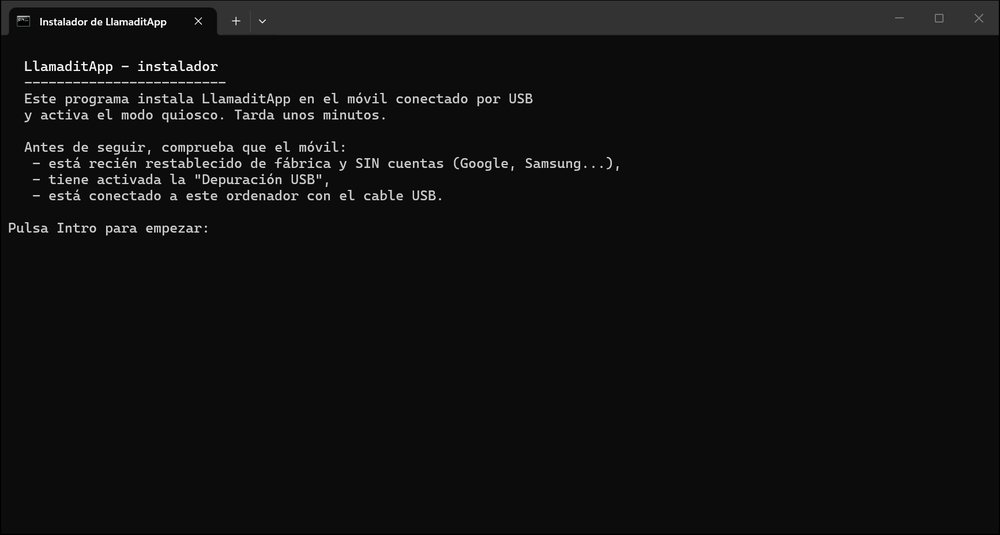
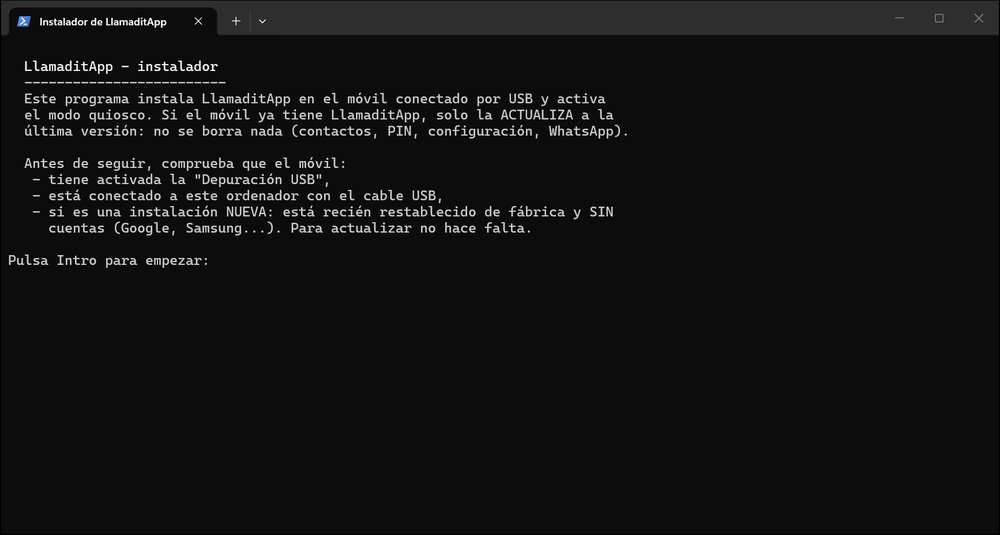
Guía para actualizar sin restablecer el móvil
- docs/ACTUALIZAR.md: paso a paso con capturas para pasar, por ejemplo,
  de la 1.1 a la 1.3 conservando contactos, PIN, configuración y modo
  quiosco. Probado en el emulador con una actualización real 1.1 -> 1.3.
- El instalador de Windows explica que también actualiza, dice de qué
  versión a cuál y da instrucciones distintas al terminar.
- Enlaces desde el README, la guía de instalación y la guía técnica.

diff --git a/docs/ACTUALIZAR.md b/docs/ACTUALIZAR.md
@@ -1,0 +1,159 @@
+# Actualizar LlamaditApp a la última versión
+
+Si el móvil ya tiene LlamaditApp instalada (por ejemplo, la versión 1.1) y quieres pasar a la última, **no hace falta restablecerlo de fábrica**. Se actualiza en unos 10 minutos con el mismo instalador de Windows, y **se conserva todo**:
+
+- los contactos, sus fotos y su orden;
+- el PIN del cuidador y toda la configuración del panel (contacto del SOS, quién puede pedir la ubicación, palabras clave…);
+- WhatsApp y sus videollamadas;
+- el modo quiosco: LlamaditApp sigue controlando el móvil.
+
+Se puede saltar versiones: de la 1.1 se pasa directamente a la última.
+
+> ⚠ **No hagas nada de esto para actualizar:** no restablezcas el móvil, no pulses **Quitar el Device Owner** en el panel y no desinstales la app. Perderías la configuración y tendrías que instalarlo todo desde cero.
+
+**Lo que necesitas:**
+
+- Un ordenador con **Windows** e internet.
+- El **cable USB** del móvil.
+- El móvil con **más de la mitad de batería**.
+- El **PIN del cuidador**.
+
+---
+
+## Índice
+
+1. [Mira qué versión tienes y pausa el modo quiosco](#1-mira-qué-versión-tienes-y-pausa-el-modo-quiosco)
+2. [Comprueba que la "Depuración USB" sigue activada](#2-comprueba-que-la-depuración-usb-sigue-activada)
+3. [Descarga el instalador nuevo](#3-descarga-el-instalador-nuevo)
+4. [Conecta el móvil y ejecuta el instalador](#4-conecta-el-móvil-y-ejecuta-el-instalador)
+5. [Comprueba el móvil y activa otra vez el modo quiosco](#5-comprueba-el-móvil-y-activa-otra-vez-el-modo-quiosco)
+6. [Configura las novedades](#6-configura-las-novedades)
+7. [Si algo sale mal](#7-si-algo-sale-mal)
+
+---
+
+## 1. Mira qué versión tienes y pausa el modo quiosco
+
+1. En el móvil, **mantén pulsado el reloj 5 segundos** y escribe el **PIN** del cuidador.
+2. Baja hasta el final del panel. En **Acerca de** pone la versión instalada (en la captura, **LlamaditApp 1.1**). La última versión está siempre en la [página de descargas](https://github.com/alvsanmun/LlamaditApp/releases/latest).
+3. Un poco más arriba, en **Modo quiosco**, pulsa **Pausar el modo quiosco**. Así el móvil puede mostrar los avisos que hagan falta durante la actualización. Al terminar lo volverás a activar.
+
+<table><tr>
+<td><img src="img/actualizar/a01-version-y-pausar.jpg" width="260" alt="Panel del cuidador: botón Pausar el modo quiosco y versión 1.1 en Acerca de"></td>
+</tr><tr>
+<td align="center">① <b>Acerca de</b>: la versión.<br>② <b>Pausar el modo quiosco</b>.<br>⛔ El botón rojo, <b>no</b>.</td>
+</tr></table>
+
+---
+
+## 2. Comprueba que la "Depuración USB" sigue activada
+
+Es la opción que dejaste activada al instalar LlamaditApp. Normalmente sigue así, pero conviene comprobarlo:
+
+1. En el panel, pulsa **Abrir Ajustes de Android**.
+2. Ve al final de Ajustes → **Opciones de desarrollador** y comprueba que **Depuración por USB** está **activada**.
+3. **Solo en Samsung:** en **Ajustes → Seguridad y privacidad**, el **Bloqueador automático** tiene que estar **desactivado**; si no, el móvil no deja instalar desde el ordenador.
+
+<table><tr>
+<td><img src="img/guia/s11-opciones-desarrollador.jpg" width="230" alt="Opciones de desarrollador al final de Ajustes"></td>
+<td><img src="img/guia/s12-depuracion-usb.jpg" width="230" alt="Depuración por USB activada"></td>
+</tr><tr>
+<td align="center">① <b>Opciones de desarrollador</b></td><td align="center">② <b>Depuración por USB</b> activada</td>
+</tr></table>
+
+Si no aparecen las **Opciones de desarrollador** (puede pasar tras una actualización grande de Android), actívalas otra vez como en el [paso 5 de la guía de instalación](GUIA-INSTALACION.md#5-activar-la-depuración-usb).
+
+Pulsa el botón de **inicio** del móvil para volver a LlamaditApp.
+
+---
+
+## 3. Descarga el instalador nuevo
+
+Aunque ya tengas el instalador de otra vez, descárgalo de nuevo: el actual explica mejor la actualización.
+
+1. En el ordenador, abre la [página de la última versión](https://github.com/alvsanmun/LlamaditApp/releases/latest) y pulsa **Instalador-LlamaditApp-Windows.zip**.
+2. En la carpeta **Descargas**, haz clic con el botón derecho en el archivo → **Extraer todo…** → **Extraer**.
+3. Se abre la carpeta **LlamaditApp-Instalador-Windows**.
+
+<table><tr>
+<td><img src="img/guia/p01-descargar-instalador.jpg" width="420" alt="Descargar el instalador desde GitHub"></td>
+<td><img src="img/guia/p03-extraer-todo.jpg" width="300" alt="Extraer todo"></td>
+</tr><tr>
+<td align="center">① Descargar el instalador</td><td align="center">② Extraer todo</td>
+</tr></table>
+
+---
+
+## 4. Conecta el móvil y ejecuta el instalador
+
+1. Conecta el móvil al ordenador con el cable USB. Si el móvil pregunta qué hacer con el USB, elige **Transferir archivos**.
+2. En la carpeta del instalador, haz **doble clic** en **Instalar LlamaditApp.bat**. Si Windows avisa con "Windows protegió su PC", pulsa **Más información → Ejecutar de todas formas**.
+3. Lee la primera pantalla y pulsa **Intro**.
+
+<p align="center"><img src="img/actualizar/a02-instalador-inicio.jpg" width="700" alt="Primera pantalla del instalador"></p>
+
+4. Si en el móvil aparece **"¿Permitir depuración USB?"**, marca **Permitir siempre desde este ordenador** y pulsa **Permitir**.
+5. El instalador descarga la última versión, **detecta que LlamaditApp ya está instalada** y solo la actualiza. Al final dice de qué versión a cuál ha pasado:
+
+<p align="center"><img src="img/actualizar/a03-instalador-actualizado.jpg" width="700" alt="El instalador ha actualizado de la versión 1.1 a la 1.3"></p>
+
+Fíjate en las líneas **"ya controla este móvil: solo se actualizará"** y **"App actualizada: de la versión 1.1 a la 1.3"**. Pulsa **Intro** para cerrar la ventana y desconecta el cable.
+
+---
+
+## 5. Comprueba el móvil y activa otra vez el modo quiosco
+
+1. LlamaditApp se reinicia sola con la versión nueva. Si aparece el aviso **"Visualización en pantalla completa"**, pulsa **Entendido** (es un aviso de Android que sale una sola vez).
+
+<p align="center"><img src="img/actualizar/a04-aviso-pantalla-completa.jpg" width="300" alt="Aviso de Android: Visualización en pantalla completa"></p>
+
+2. Entra en el panel (reloj 5 segundos y **el mismo PIN de siempre**). Comprueba que siguen los contactos, el contacto del SOS y lo demás.
+3. Baja hasta **Modo quiosco** y pulsa **Activar el modo quiosco**. En **Acerca de** ya pone la versión nueva.
+
+<table><tr>
+<td><img src="img/actualizar/a05-configuracion-conservada.jpg" width="230" alt="El contacto del SOS y el resto de la configuración se conservan"></td>
+<td><img src="img/actualizar/a06-activar-quiosco.jpg" width="230" alt="Activar el modo quiosco y versión 1.3"></td>
+</tr><tr>
+<td align="center">① La configuración sigue igual</td><td align="center">② <b>Activar el modo quiosco</b>.<br>Versión <b>1.3</b> en Acerca de.</td>
+</tr></table>
+
+✅ **Listo.** La pantalla principal se queda igual que antes; las funciones nuevas vienen **desactivadas** hasta que el cuidador las active.
+
+---
+
+## 6. Configura las novedades
+
+Lo nuevo de la versión 1.3, todo desde el panel del cuidador:
+
+| Novedad | Dónde se explica |
+|---|---|
+| **Pantalla principal a medida**: mover, agrandar u ocultar botones, y otro dibujo para el SOS (ambulancia, cruz, corazón…) | [Guía, paso 9.1](GUIA-INSTALACION.md#91-adaptar-la-pantalla-principal) |
+| **Volver a casa**: dirección en grande, ruta a pie con voz y foto del portal al llegar | [Guía, paso 9.2](GUIA-INSTALACION.md#92-volver-a-casa-opcional) |
+| **Wi-Fi opcional** | [Guía, paso 9.3](GUIA-INSTALACION.md#93-wi-fi-opcional) |
+| **Contactos desde una cuenta de Google** | [Guía, paso 8, opción B](GUIA-INSTALACION.md#opción-b-desde-una-cuenta-de-google) |
+| **Avisos por SMS de "Volver a casa"** y aviso del coste de los SMS | [Funciones: Volver a casa](FUNCIONES.md#11-volver-a-casa) |
+
+Y algunos [consejos](FUNCIONES.md#consejos), como descargar el mapa de la ciudad en Google Maps para que la ruta a casa funcione sin datos.
+
+La lista completa de cambios de cada versión está en la [página de versiones](https://github.com/alvsanmun/LlamaditApp/releases).
+
+---
+
+## 7. Si algo sale mal
+
+| El instalador dice… | Qué hacer |
+|---|---|
+| "No encuentro el móvil" | Comprueba el cable (mejor el original) y que la **Depuración USB** está activada (paso 2). Prueba otro puerto USB del ordenador. |
+| Se queda esperando y el móvil pregunta **"¿Permitir depuración USB?"** | Pulsa **Permitir** en el móvil. Si no aparece la pregunta, comprueba que pausaste el modo quiosco (paso 1). |
+| "Ya hay otra versión instalada con una firma distinta" (`UPDATE_INCOMPATIBLE`) | La app del móvil no salió de la [página oficial](https://github.com/alvsanmun/LlamaditApp/releases) (por ejemplo, la compiló alguien por su cuenta). No se puede actualizar encima: habría que quitar el Device Owner, desinstalarla e instalar de nuevo, y se perdería la configuración del panel. |
+| "El móvil ya tiene una versión más nueva" | No hay nada que actualizar. |
+| La instalación falla en un Samsung | Desactiva el **Bloqueador automático** (paso 2) y vuelve a abrir el instalador. |
+| "Windows protegió su PC" | **Más información → Ejecutar de todas formas**. |
+
+**Para quien ya usa `adb`:** basta con descargar el APK de la última versión y ejecutar `adb install -r LlamaditApp-1.3.apk`. El `-r` reinstala conservando los datos.
+
+¿Otro problema? Mira [Problemas frecuentes](PROBLEMAS.md) o abre una [incidencia en GitHub](https://github.com/alvsanmun/LlamaditApp/issues).
+
+---
+
+<sub>Capturas del emulador de Android actualizando de la versión 1.1 a la 1.3, con contactos inventados; las de los menús de Ajustes, de un Samsung Galaxy A16.</sub>

diff --git a/README.md b/README.md
@@ -69,6 +69,8 @@ Todas las pantallas, explicadas una a una, en **[docs/FUNCIONES.md](docs/FUNCION
 
 En Windows basta con descargar el **[instalador](https://github.com/alvsanmun/LlamaditApp/releases/latest/download/Instalador-LlamaditApp-Windows.zip)**, conectar el móvil por USB y hacer doble clic en `Instalar LlamaditApp.bat`: descarga solo lo necesario, instala la app y activa el modo quiosco.
 
+**¿Ya tienes LlamaditApp en el móvil?** 👉 **[Actualizar a la última versión](docs/ACTUALIZAR.md)**, sin restablecer el móvil y sin perder los contactos ni la configuración (por ejemplo, de la 1.1 a la 1.3).
+
 Resumen para quien ya conoce `adb` ([guía técnica](docs/INSTALACION.md)):
 
 ```bash
@@ -84,6 +86,7 @@ Después: mantener pulsado el **reloj 5 segundos** → crear el PIN del cuidador
 
 - [Funciones en detalle](docs/FUNCIONES.md): qué ve la persona y qué puede ajustar el cuidador.
 - [Guía de instalación paso a paso, con capturas](docs/GUIA-INSTALACION.md): para quien no sabe de informática.
+- [Actualizar a la última versión](docs/ACTUALIZAR.md): sin restablecer el móvil ni perder nada.
 - [Instalación técnica con adb](docs/INSTALACION.md).
 - [Configuración recomendada de Android](docs/CONFIGURACION.md): ajustes del teléfono, la SIM, WhatsApp y los móviles de los familiares para que todo funcione bien.
 - [Solución de problemas](docs/PROBLEMAS.md).

diff --git a/docs/INSTALACION.md b/docs/INSTALACION.md
@@ -206,13 +206,15 @@ Recuérdales también cómo pedir la ubicación: un SMS con la palabra `UBICACIO
 
 ## Actualizar LlamaditApp
 
-Con el móvil conectado al ordenador (depuración USB activa):
+> Guía paso a paso con capturas, con el instalador de Windows: **[ACTUALIZAR.md](ACTUALIZAR.md)**.
+
+Con el móvil conectado al ordenador (depuración USB activa). Conviene pausar antes el modo quiosco desde el panel, por si el móvil tiene que preguntar "¿Permitir depuración USB?", y activarlo al terminar:
 
 ```bash
-adb install -r launcher-facil.apk
+adb install -r LlamaditApp-1.3.apk
 ```
 
-Se conservan el PIN, los ajustes y el modo quiosco. La versión nueva tiene que estar firmada con la misma clave que la instalada.
+Se conservan el PIN, los ajustes, los contactos y el modo quiosco, y se pueden saltar versiones (de la 1.1 a la 1.3, por ejemplo). La versión nueva tiene que estar firmada con la misma clave que la instalada: las de la [página de versiones](https://github.com/alvsanmun/LlamaditApp/releases) lo están todas.
 
 ## Desinstalar LlamaditApp o entregar el móvil a otra persona
 

diff --git a/docs/GUIA-INSTALACION.md b/docs/GUIA-INSTALACION.md
@@ -4,6 +4,8 @@ Esta guía explica, con capturas de cada pantalla, cómo dejar un móvil Android
 
 **Tiempo:** alrededor de una hora la primera vez.
 
+> 🔄 **¿El móvil ya tiene LlamaditApp y solo quieres la versión nueva?** No sigas esta guía: mira **[Actualizar a la última versión](ACTUALIZAR.md)**. No hace falta restablecer nada y se conserva todo.
+
 > 📱 Las capturas son de un **Samsung Galaxy A16** y de un móvil Android "puro" (como los Google Pixel). Si tu móvil es de otra marca, los menús se parecen mucho: cuando no encuentres algo, usa la **lupa de Ajustes** y escribe el nombre de lo que buscas.
 
 ---
